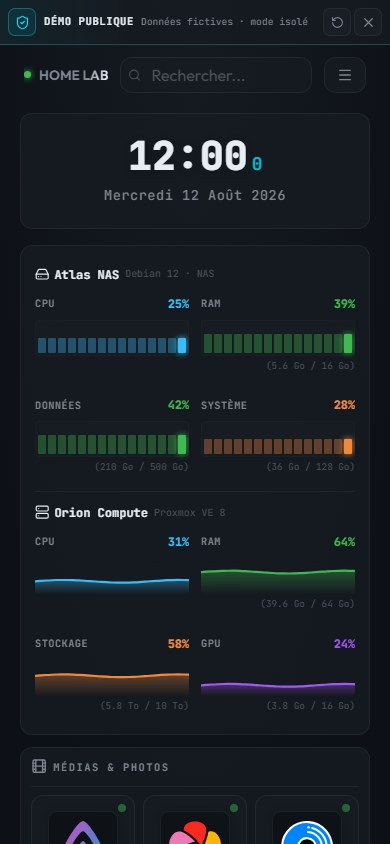
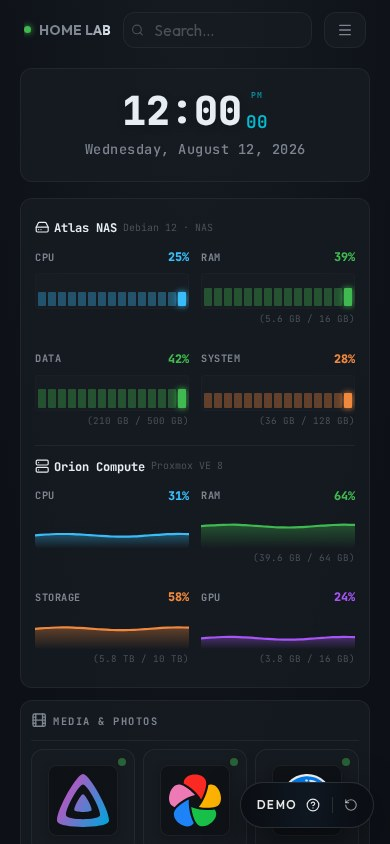
docs: refresh README screenshots from the isolated English demo

diff --git a/README.md b/README.md
@@ -26,18 +26,35 @@ Configuration stays on your own server in a persistent Docker volume or bind-mou
 
 ## Product preview
 
-Every service, address, metric, and log line below comes from NasDash's isolated public-demo profile. No personal installation or real infrastructure is connected during capture.
+Every service, address, metric, and log line below comes from NasDash's isolated public-demo profile. No personal installation or real infrastructure is connected during capture. Screenshots use the English interface with the demo intro dialog closed.
 
 | Docker management and simulated logs | Network topology |
 | --- | --- |
 | <img src="docs/assets/screenshots/nasdash-demo-docker.jpg" alt="NasDash Docker details with fictional metrics, volumes, and logs" width="640" /> | <img src="docs/assets/screenshots/nasdash-demo-networks.jpg" alt="NasDash network topology with documentation-only addresses" width="640" /> |
 
+| Configurable widgets | Appearance settings |
+| --- | --- |
+| <img src="docs/assets/screenshots/nasdash-demo-widgets.jpg" alt="NasDash widget catalog and customizable dashboard tiles" width="640" /> | <img src="docs/assets/screenshots/nasdash-demo-settings.jpg" alt="NasDash appearance settings with English selected" width="640" /> |
+
+Theme, layout, and visual profiles are first-class product surfaces, not a single default look:
+
+| Visual Themes gallery | GitHub Light |
+| --- | --- |
+| <img src="docs/assets/screenshots/nasdash-demo-themes.jpg" alt="NasDash Visual Themes gallery with 26 bundled themes" width="640" /> | <img src="docs/assets/screenshots/nasdash-demo-home-github-light.jpg" alt="NasDash home dashboard in the GitHub Light theme" width="640" /> |
+
+| Apple Dark | Cyberpunk |
+| --- | --- |
+| <img src="docs/assets/screenshots/nasdash-demo-home-apple-dark.jpg" alt="NasDash home dashboard in the Apple Dark theme" width="640" /> | <img src="docs/assets/screenshots/nasdash-demo-home-cyberpunk.jpg" alt="NasDash home dashboard in the Cyberpunk theme" width="640" /> |
+
 <details>
-<summary>More views: widgets, settings, and mobile</summary>
+<summary>More themes, layout options, and mobile</summary>
+
+| Dracula | Nord |
+| --- | --- |
+| <img src="docs/assets/screenshots/nasdash-demo-home-dracula.jpg" alt="NasDash home dashboard in the Dracula theme" width="640" /> | <img src="docs/assets/screenshots/nasdash-demo-home-nord.jpg" alt="NasDash home dashboard in the Nord theme" width="640" /> |
 
 <p align="center">
-  <img src="docs/assets/screenshots/nasdash-demo-widgets.jpg" alt="NasDash configurable widgets" width="900" />
-  <img src="docs/assets/screenshots/nasdash-demo-settings.jpg" alt="NasDash appearance settings" width="900" />
+  <img src="docs/assets/screenshots/nasdash-demo-home-layout.jpg" alt="NasDash home with the dock visible and widget titles shown" width="900" />
 </p>
 
 | Mobile home | Mobile Docker |

diff --git a/docs/SCREENSHOTS.md b/docs/SCREENSHOTS.md
@@ -14,12 +14,15 @@ npm run demo:capture
 
 The script starts its own demo server on `127.0.0.1:2511`, freezes the browser and demo-calendar time, disables decorative motion and writes optimized JPEG files to `docs/assets/screenshots/`. It refuses to reuse an existing server so a normal or personal NasDash instance cannot be captured accidentally.
 
+Captures always use English (`?lang=en`) and close the public-demo intro dialog before the first screenshot. The compact demo chip in the corner may remain visible.
+
 Use `NASDASH_CAPTURE_PORT` if port `2511` is unavailable. The generated runtime uses only tracked fictional fixtures, an isolated in-memory visitor session and a capture-only secret.
 
 ## Captured views
 
-- Desktop Home with the public-demo disclosure visible.
-- Desktop Docker, Networks, Widgets and Settings views.
+- Desktop Home in the default NasDash theme, with the intro dialog closed.
+- Desktop Docker, Networks, Widgets, settings and the theme gallery.
+- Theme and layout variants of Home: GitHub Light, Apple Dark, Dracula, Nord, Cyberpunk, and a dock/titles variant.
 - Mobile Home and Docker views at a fixed phone viewport.
 
-Review every image before committing it. Confirm that it contains only `.demo.invalid` links, fictional names and simulated infrastructure. Regenerate the complete set after a layout or fixture change so documentation never combines incompatible UI states.
+Review every image before committing it. Confirm that it contains only `.demo.invalid` links, fictional names and simulated infrastructure, English interface copy, and no open intro dialog. Regenerate the complete set after a layout or fixture change so documentation never combines incompatible UI states.

diff --git a/CHANGELOG.md b/CHANGELOG.md
@@ -15,6 +15,7 @@ The format follows [Keep a Changelog](https://keepachangelog.com/en/1.1.0/), and
 - Treat `.env` as an optional advanced override while preserving generated first-start credentials when it is absent.
 - Let Docker Compose derive stack and container names, avoiding fixed global names and allowing multiple installations to coexist.
 - Keep every copy-ready Compose example on `./data`. A named volume is an optional new-install alternative, not the default: switching an existing folder install to `nasdash-data` leaves the real files unused.
+- Refresh README product screenshots from the isolated English public demo, with the intro dialog closed and additional views of Docker, networks, widgets, settings, theme variants, layout options, and mobile.
 
 ## [0.1.4] - 2026-09-08
 
